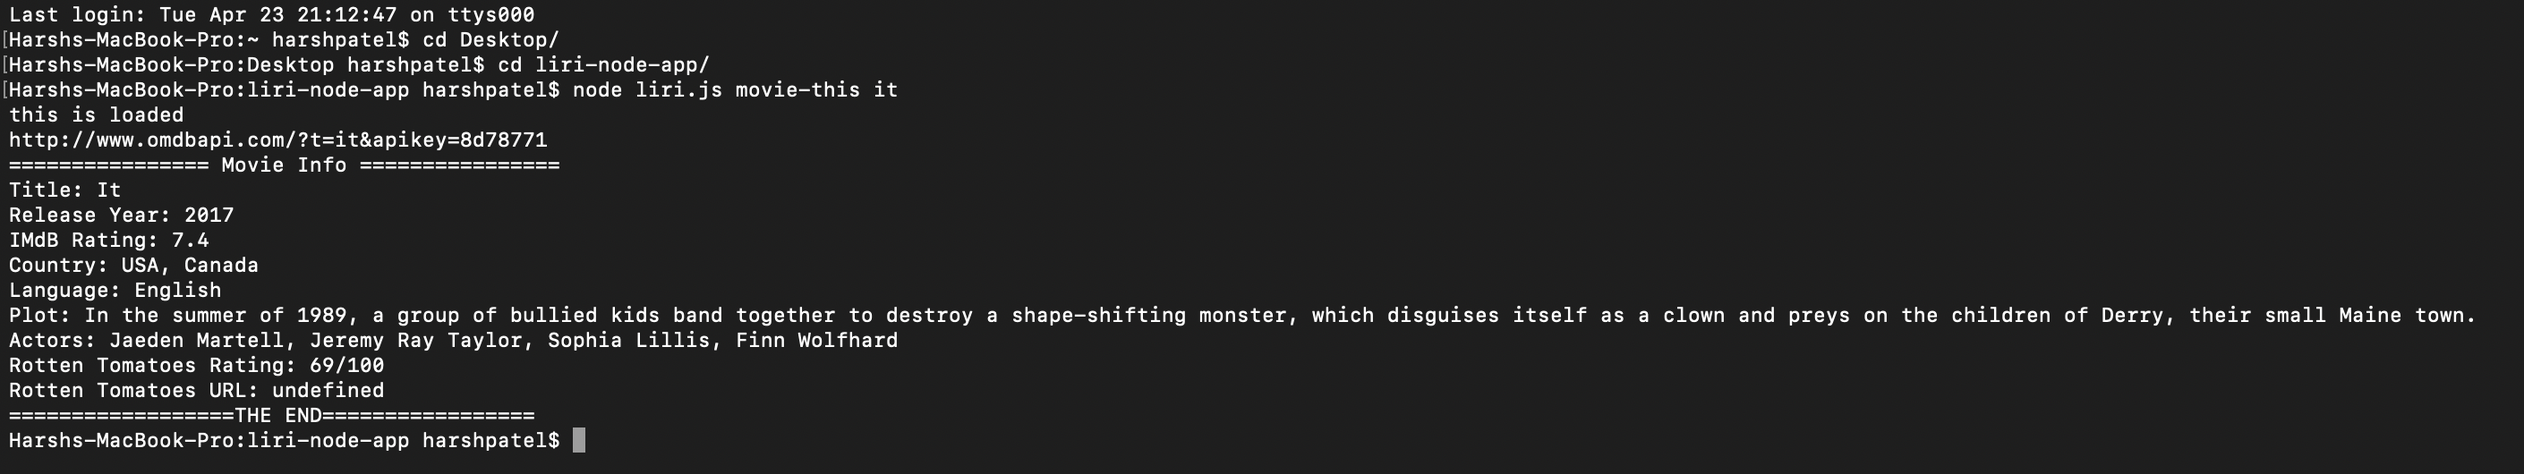
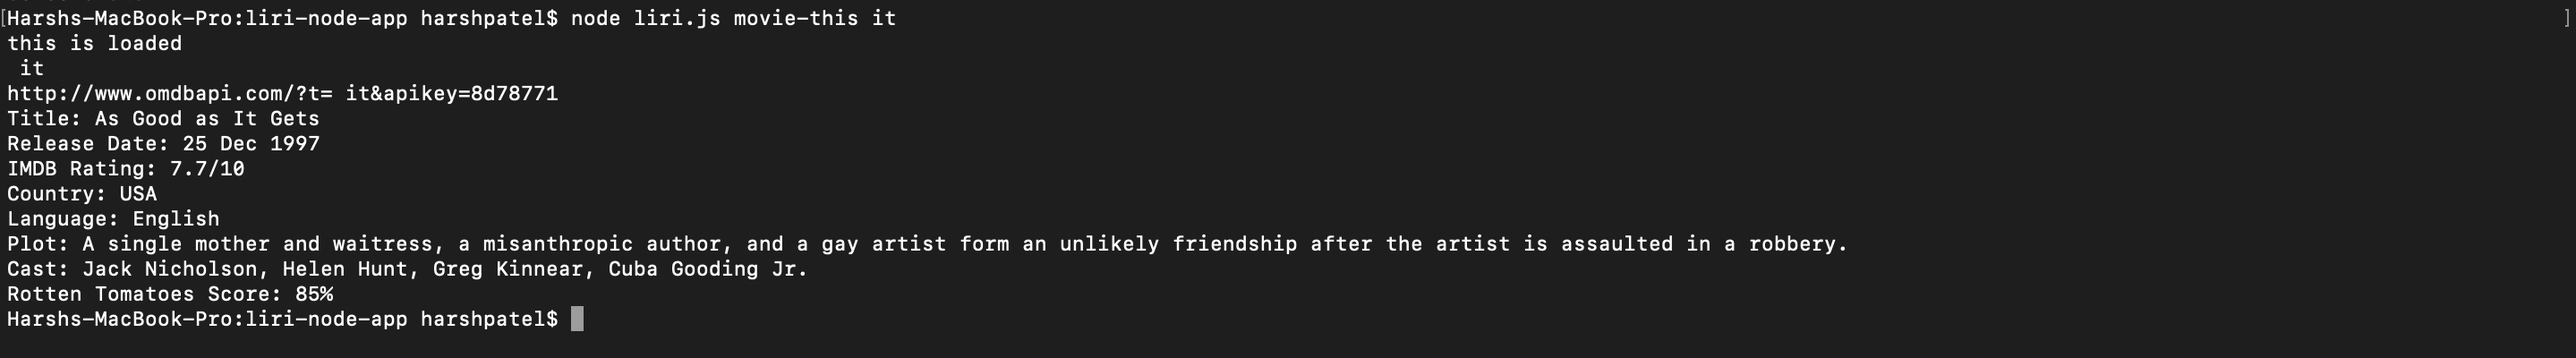
new and updated files

Changed region(s): [[0.0, 0.0, 0.9986, 0.96]]

diff --git a/liri.js b/liri.js
@@ -1,120 +1,116 @@
 require("dotenv").config();
 
-//variables
-var keys = require("./keys.js");
+// Packages/modules
 var fs = require("fs");
-var request = require("request");
-//var Spotify = require('spotify-web-api-node');
-var Spotify = require('node-spotify-api');
+var axios = require("axios");
+var Spotify = require("node-spotify-api");
 
-//argv[2] chooses users actions; argv[3] is input parameter, ie; movie title
-var userCommand = process.argv[2];
-var secondCommand = process.argv[3];
 
-//concatenate multiple words in 2nd user argument
-for (var i = 4; i < process.argv.length; i++) {
-    secondCommand += '+' + process.argv[i];
-}
+var keys = require("./keys.js");
+var song = new Spotify(keys.spotify);
+var argv = process.argv;
+var argv2 = argv[2];
 
-// Getting Spotify Keys
-var spotify = new Spotify(keys.spotify);
-// Function for running a Spotify search
-var getSpotify = function () {
-    if (!secondCommand) {
-        secondCommand = "I Want it That Way";
+
+//Multiple word search
+var queryName = " ";
+
+for (var i = 3; i < argv.length; i++) {
+    if (i > 3 && i < argv.length) {
+        queryName = queryName + "+" + argv[i];
     }
-    console.log("getting info" + secondCommand);
-
-    spotify.search(
-        {
-            type: "track",
-            query: secondCommand
-        },
-        function (err, data) {
-            if (err) {
-                console.log("Error occurred: " + err);
-                return;
-            }
-
-            var songs = data.tracks.items;
-
-            for (var i = 0; i < songs.length; i++) {
-                console.log(i);
-                console.log("artist(s): " + songs[i].artists[0].name);
-                console.log("song name: " + songs[i].name);
-                console.log("preview song: " + songs[i].preview_url);
-                console.log("album: " + songs[i].album.name);
-                console.log("-----------------------------------");
-            }
-        }
-    );
+    else {
+    queryName += argv[i];
+    }
 };
 
-//Switch command
-function mySwitch(userCommand) {
-    //choose which statement (userCommand) to switch to and execute
-    switch (userCommand) {
-        case "spotify-this-song":
-        getSpotify();
+console.log(queryName);
+
+
+// This will allow user to search from action called (spotify-this-song, movie-this, do-what-it-says)
+
+switch (argv2) {
+
+    case "concert-this":
+        concert();
+        break;
+        
+    case "spotify-this-song":
+        songSearch();
         break;
 
-        case "do-what-it-says":
+    case "movie-this":
+        movieSearch();
+        break;
+
+    case "do-what-it-says":
         doWhat();
         break;
+};
 
-        case "movie-this":
-        getMovie();
-        break;
-    }
 
-    //OMDB Movie: movie-this
-    function getMovie() {
-        // OMDB Movie - this MOVIE base code is from class files, I have modified for more data and assigned parse.body to a Var
-        var movieName = secondCommand;
-        // Then run a request to the OMDB API with the movie specified
-        var queryUrl = "http://www.omdbapi.com/?t=" + movieName + "&apikey=8d78771";
-        console.log(queryUrl)
+// Search songs
 
-        request(queryUrl, function (error, response, body) {
+function songSearch() {
 
-            // If the request is successful = 200
-            if (!error && response.statusCode === 200) {
-                var body = JSON.parse(body);
-                console.log('================ Movie Info ================');
-                console.log("Title: " + body.Title);
-                console.log("Release Year: " + body.Year);
-                console.log("IMdB Rating: " + body.imdbRating);
-                console.log("Country: " + body.Country);
-                console.log("Language: " + body.Language);
-                console.log("Plot: " + body.Plot);
-                console.log("Actors: " + body.Actors);
-                console.log("Rotten Tomatoes Rating: " + body.Ratings[2].Value);
-                console.log("Rotten Tomatoes URL: " + body.tomatoURL);
-                console.log('==================THE END=================');
-            } else {
-                //else - throw error
-                console.log("Error occurred.")
-            }
-            //Response if user does not type in a movie title
-            if (movieName === "Mr. Nobody") {
-                console.log("-----------------------");
-                console.log("If you haven't watched 'Mr. Nobody,' then you should: http://www.imdb.com/title/tt0485947/");
-                console.log("It's on Netflix!");
-            }
-        });
-    }
+    song.search({ type: 'track', query: queryName }, function(error, data) {
+        if (error) {
+            return console.log('Error occurred: ' + error);
+        }
+        
+        var songs = data.tracks.items;
+        console.log("Artist: " + songs[0].artists[0].name);
+        console.log("Song Name: " + songs[0].name);
+        console.log("Preview Link: " + songs[0].preview_url);
+        console.log("Album: " + songs[0].album.name);
+    })
+};
 
-    //Function for command do-what-it-says
-    function doWhat() {
-        //Read random.txt file
-        fs.readFile("random.txt", "utf8", function (error, data) {
-            if (!error);
-            console.log(data.toString());
 
-            //split text with comma 
-            var split = data.toString().split(',');
-        });
-    }
-}
-//Call mySwitch function
-mySwitch(userCommand);
+// Search movies
+
+function movieSearch() {
+
+var queryUrl = "http://www.omdbapi.com/?t=" + queryName + "&apikey=8d78771";
+
+console.log(queryUrl);
+
+axios.get(queryUrl)
+    .then(function(response) {
+
+        console.log("Title: " + response.data.Title);
+        console.log("Release Date: " + response.data.Released);
+        console.log("IMDB Rating: " + response.data.Ratings[0].Value);
+        console.log("Country: " + response.data.Country);
+        console.log("Language: " + response.data.Language);
+        console.log("Plot: " + response.data.Plot);
+        console.log("Cast: " + response.data.Actors);
+        console.log("Rotten Tomatoes Score: " + response.data.Ratings[1].Value);
+    });
+};
+
+
+//do what it says
+
+function doWhat() {
+    fs.readFile("random.txt", "utf8", function(error, data) {
+        if (error) {
+            return console.log(error);
+        }
+
+        var array = data.split(",");
+        argv = array;
+        argv2 = array[0];
+        queryName = array[1];
+
+        console.log(array[0]);
+        console.log(array[1]);
+
+        if (argv2  == "spotify-this-song") {
+            songSearch();
+        }
+        if (argv2  == "movie-this") {
+            movieSearch();
+        }
+    });
+};

diff --git a/README.md b/README.md
@@ -3,7 +3,7 @@ LIRI is like iPhone's SIRI. However, while SIRI is a Speech Interpretation and R
 
 ## LIRI uses the following commands:
 ```
-my-tweets, spotify-this-song, movie-this, do-what-it-says
+spotify-this-song, movie-this, do-what-it-says
 ```
 
 ## Technologies used:
@@ -13,36 +13,34 @@ my-tweets, spotify-this-song, movie-this, do-what-it-says
 
 ## npm packages: 
 
-1. [spotify](https://www.npmjs.com/package/node-spotify-api) - A simple to use API library for the Spotify REST API.
-2. [request](https://www.npmjs.com/package/request) - Request is designed to be the simplest way possible to make http calls. It supports HTTPS and follows redirects by default.
-3. [dotenv](https://www.npmjs.com/package/dotenv) - Dotenv is a zero-dependency module that loads environment variables from a .env file into process.env.
+1. Spotify
+2. Request
+3. dotenv
+4. axios
 
 ## How to Run LIRI-Bot
 
-* Step One: node liri spotify-this-song ```<song name here>```.
+* Step One: node liri spotify-this-song ```song name here```.
 	
 	This will show the following information about the song in your terminal/bash window: 
-	* Artist(s) 
-	* The song's name 
-	* A preview link of the song from Spotify 
-	* The album that the song is from
+	* Artist 
+	* Song Name 
+	* Preview Link (might be avaliable for certain songs)
+	* Album
 
-	If no song is provided then the program will default to
-	"My Heart Will Go On" by Celine Dion
-* Step Two: node liri.js movie-this ```<movie name here>```.
+
+* Step Two: node liri.js movie-this ```movie name here```.
 	
 	This will output the following information to your terminal/bash window:
-	* Title of the movie.
-	* Year the movie was released.
-	* IMDB Rating of the movie.
-	* Country where the movie was produced.
-	* Language of the movie.
-	* Plot of the movie.
-	* Actors in the movie.
-	* Rotten Tomatoes Rating.
-	* Rotten Tomatoes URL.
+	* Title
+	* Released Date
+	* IMDB Rating
+	* Country
+	* Language
+	* Plot
+	* Cast
+	* Rotten Tomatoes Score
 	
-	If the user doesn't type a movie in, the program will output data for the movie 'Mr. Nobody'
 
 * Step Three: node liri.js do-what-it-says
 
